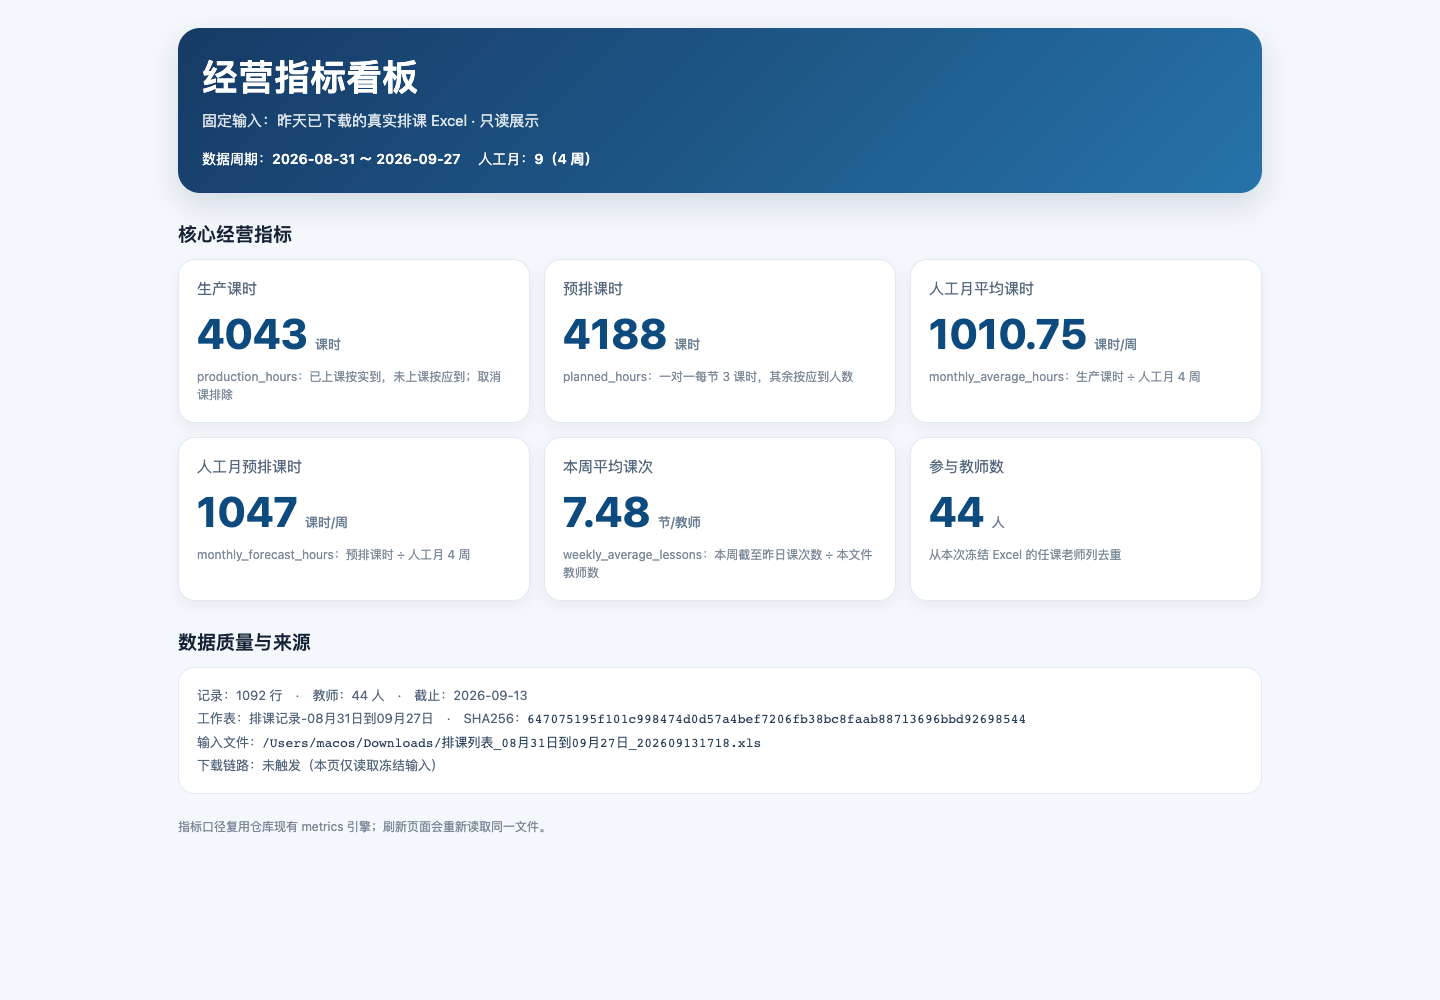
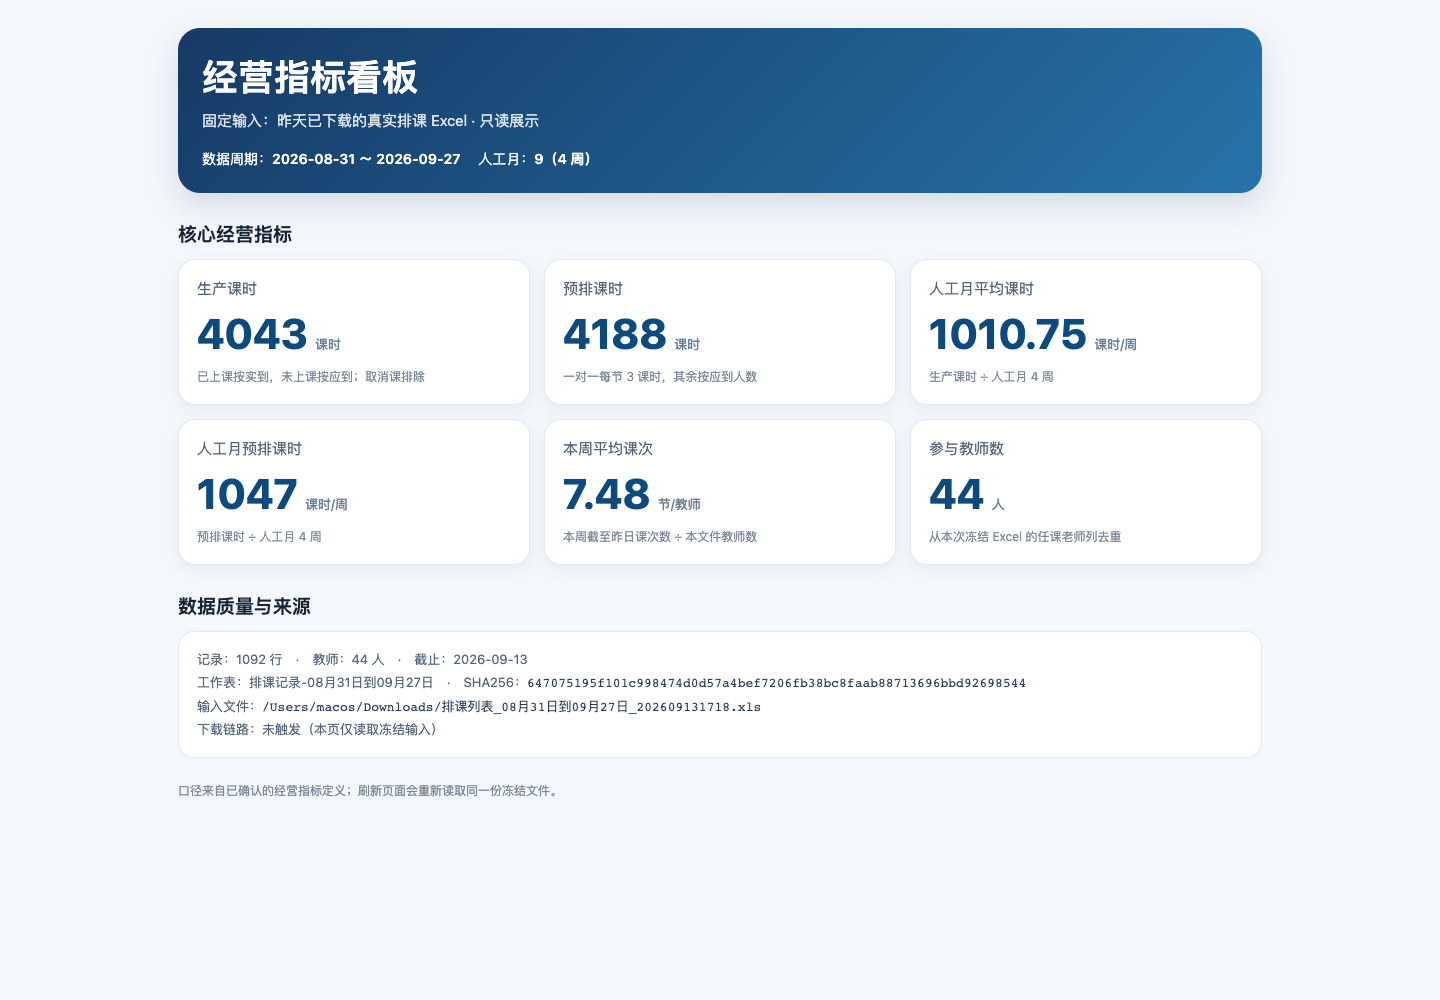
chore: keep card copy user focused

diff --git a/src/edu_ops/dashboard.py b/src/edu_ops/dashboard.py
@@ -103,6 +103,7 @@ def _card(key: str, label: str, value: Any, unit: str, definition: str) -> dict[
         "value": value,
         "unit": unit,
         "definition": definition,
+        "metric": key,
         "source": "existing edu_ops metric engine",
     }
 
@@ -144,11 +145,11 @@ def build_dashboard_payload(
         status_counts[status] = status_counts.get(status, 0) + 1
 
     cards = [
-        _card("production_hours", "生产课时", _decimal_text(production), "课时", "production_hours：已上课按实到，未上课按应到；取消课排除"),
-        _card("planned_hours", "预排课时", _decimal_text(planned), "课时", "planned_hours：一对一每节 3 课时，其余按应到人数"),
-        _card("monthly_average_hours", "人工月平均课时", _decimal_text(monthly_production_average), "课时/周", f"monthly_average_hours：生产课时 ÷ 人工月 {month.weeks} 周"),
-        _card("monthly_forecast_hours", "人工月预排课时", _decimal_text(monthly_planned_average), "课时/周", f"monthly_forecast_hours：预排课时 ÷ 人工月 {month.weeks} 周"),
-        _card("weekly_average_lessons", "本周平均课次", _decimal_text(weekly_lessons), "节/教师", "weekly_average_lessons：本周截至昨日课次数 ÷ 本文件教师数"),
+        _card("production_hours", "生产课时", _decimal_text(production), "课时", "已上课按实到，未上课按应到；取消课排除"),
+        _card("planned_hours", "预排课时", _decimal_text(planned), "课时", "一对一每节 3 课时，其余按应到人数"),
+        _card("monthly_average_hours", "人工月平均课时", _decimal_text(monthly_production_average), "课时/周", f"生产课时 ÷ 人工月 {month.weeks} 周"),
+        _card("monthly_forecast_hours", "人工月预排课时", _decimal_text(monthly_planned_average), "课时/周", f"预排课时 ÷ 人工月 {month.weeks} 周"),
+        _card("weekly_average_lessons", "本周平均课次", _decimal_text(weekly_lessons), "节/教师", "本周截至昨日课次数 ÷ 本文件教师数"),
         _card("teacher_count", "参与教师数", str(teacher_count), "人", "从本次冻结 Excel 的任课老师列去重"),
     ]
     return {
@@ -226,7 +227,7 @@ h1 {{ margin:0 0 8px; font-size:clamp(24px,4vw,36px); }} .subtitle {{ opacity:.8
 <div class="period"><span>数据周期：<b>{period['start']} ～ {period['end']}</b></span><span>人工月：<b>{period['manual_month']}（{period['weeks']} 周）</b></span></div></header>
 <h2 class="section-title">核心经营指标</h2><section class="grid">{cards}</section>
 <h2 class="section-title">数据质量与来源</h2><section class="details"><div>记录：{quality['row_count']} 行　·　教师：{quality['teacher_count']} 人　·　截止：{quality['cutoff']}</div><div>工作表：{inp['sheet']}　·　SHA256：<code>{inp['sha256']}</code></div><div>输入文件：<code>{inp['path']}</code></div><div>下载链路：未触发（本页仅读取冻结输入）</div></section>
-<footer>指标口径复用仓库现有 metrics 引擎；刷新页面会重新读取同一文件。</footer>
+<footer>口径来自已确认的经营指标定义；刷新页面会重新读取同一份冻结文件。</footer>
 <script>window.__DASHBOARD_DATA__={data};</script></main></body></html>"""
 
 
